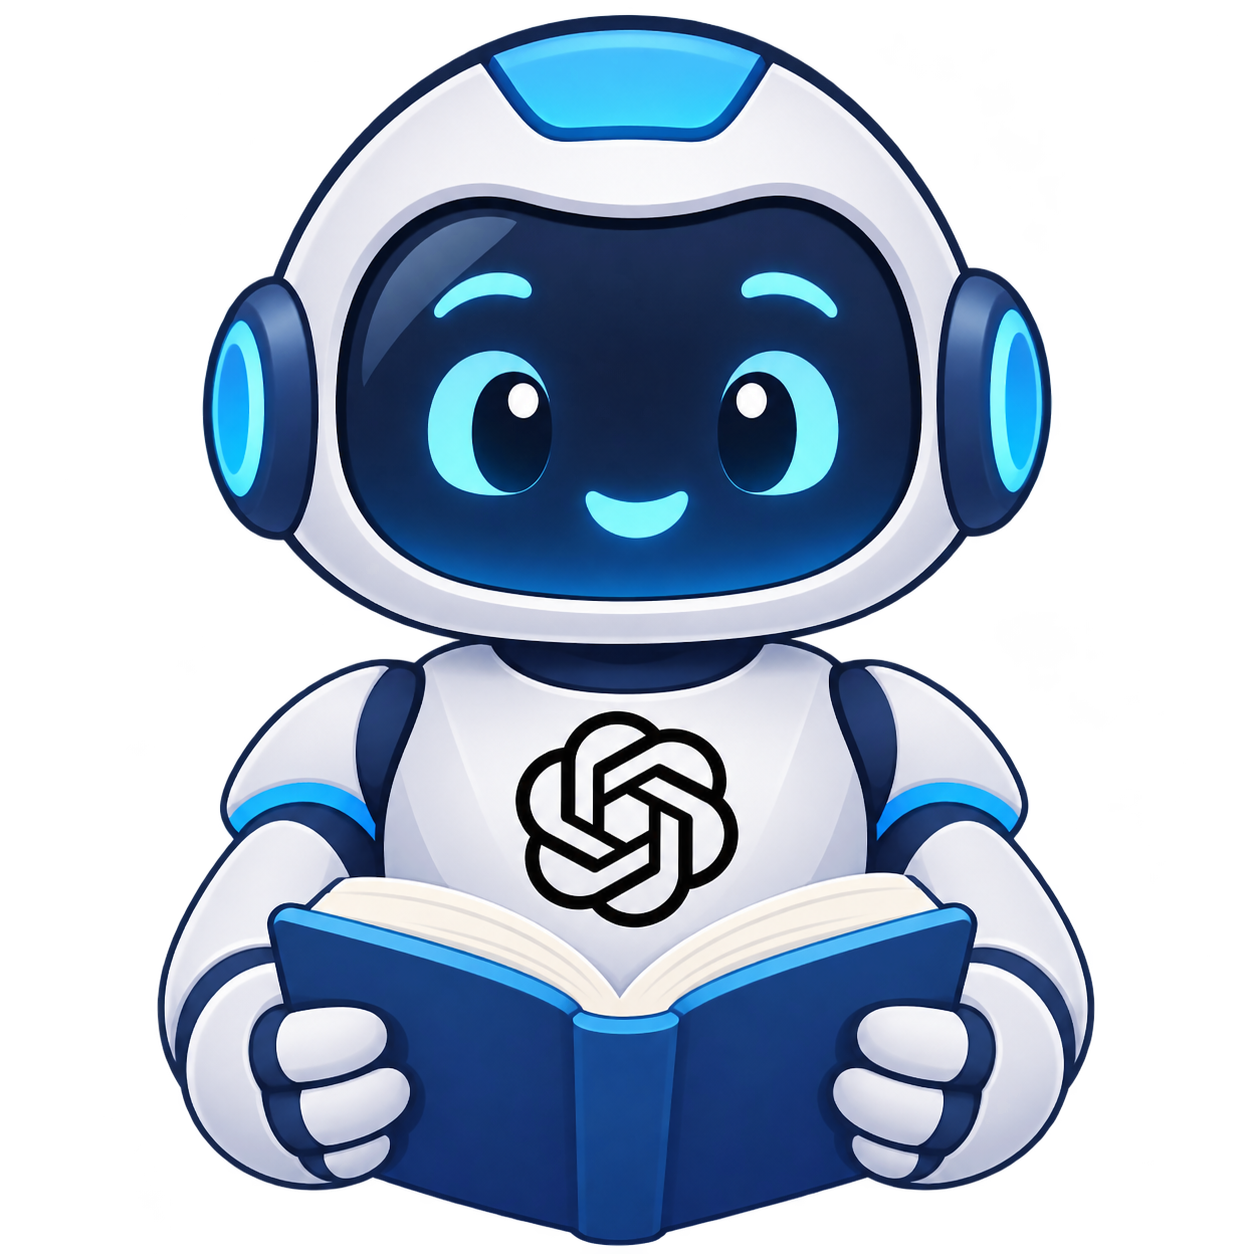
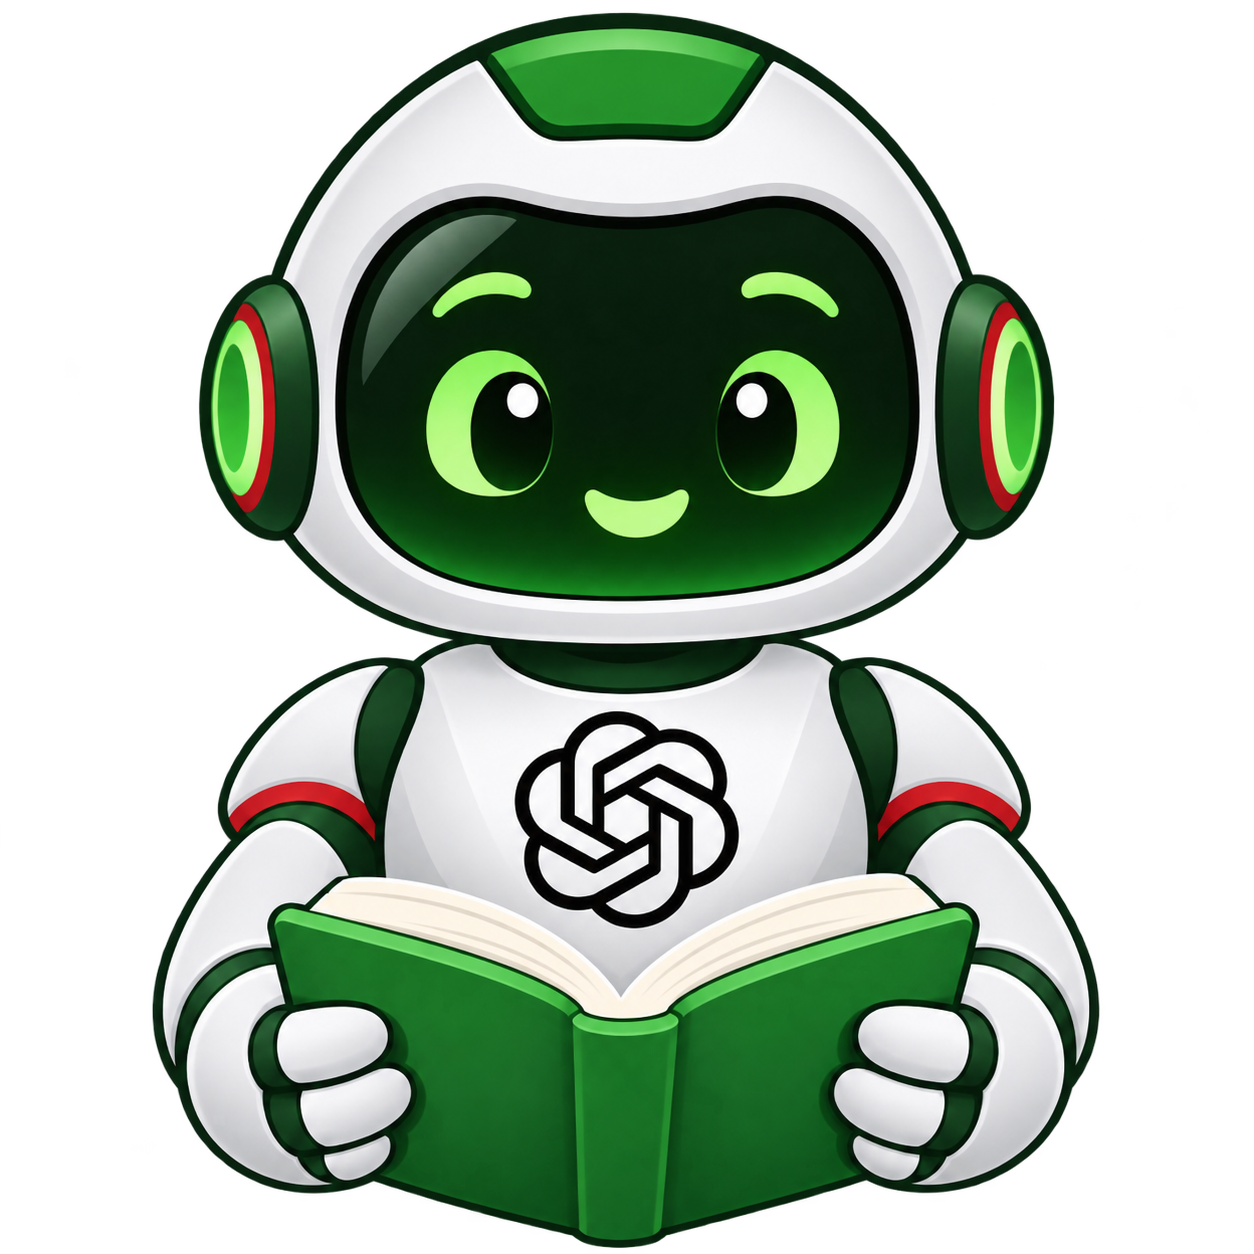
style(ui): aplica paleta do IF ao mascote

diff --git a/src/App.css b/src/App.css
@@ -14,7 +14,7 @@ h2 { font-size: 17px; margin: 0; }
 .conversa-vazia span { font-size: 14px; }
 .mensagem { width: fit-content; max-width: 88%; padding: 14px 18px; margin: 0 0 18px; border-radius: 10px; }
 .mensagem strong { display: block; font-size: 12px; margin-bottom: 6px; color: #465469; }
-.mensagem.user { background: #eaf1fc; margin-left: auto; }
+.mensagem.user { background: #eaf5eb; margin-left: auto; }
 .mensagem.assistant { background: #f2f4f7; margin-right: auto; }
 .texto-resposta { white-space: pre-wrap; overflow-wrap: anywhere; margin: 0; font-size: 15px; }
 .estado { color: #566174; margin: 12px 0; font-size: 14px; }
@@ -23,12 +23,12 @@ h2 { font-size: 17px; margin: 0; }
 label { display: block; font-size: 14px; font-weight: bold; margin-bottom: 10px; }
 textarea { display: block; width: 100%; min-height: 100px; resize: vertical; border: 1px solid #a5afbe; border-radius: 8px; padding: 12px 14px; font: inherit; font-size: 15px; color: #222b38; background: #fff; }
 textarea::placeholder { color: #687487; }
-textarea:focus-visible, button:focus-visible { outline: 3px solid #6a95cf; outline-offset: 3px; }
+textarea:focus-visible, button:focus-visible { outline: 3px solid #2f9e41; outline-offset: 3px; }
 textarea:disabled { background: #f5f6f8; }
 .acoes-formulario { display: flex; justify-content: space-between; align-items: center; gap: 20px; margin-top: 14px; }
 .ajuda { font-size: 12px; color: #596579; margin: 0; }
-button { border: 0; border-radius: 7px; padding: 10px 24px; min-height: 44px; background: #244d86; color: #fff; font: inherit; font-size: 14px; font-weight: bold; cursor: pointer; min-width: 110px; }
-button:hover:not(:disabled) { background: #163969; }
+button { border: 0; border-radius: 7px; padding: 10px 24px; min-height: 44px; background: #216b2d; color: #fff; font: inherit; font-size: 14px; font-weight: bold; cursor: pointer; min-width: 110px; }
+button:hover:not(:disabled) { background: #174c20; }
 button:disabled { background: #69788e; cursor: wait; }
 .aviso { color: #596579; font-size: 12px; margin: 12px 0 0; }
 .nota-conversa { font-size: 12px; color: #596579; margin: 12px 4px 24px; }
@@ -46,3 +46,6 @@ footer p { margin: 4px 0; }
   .mascote { width: 56px; height: 56px; }
 }
 .status-integracao { margin: 4px 0 0; font-size: 12px; color: #596579; }
+
+.publico { margin: 8px 0 0; font-size: 14px; color: #596579; }
+

diff --git a/DESIGN.md b/DESIGN.md
@@ -1,7 +1,10 @@
-# Interface
+# Interface
 
-Uma coluna com largura máxima de 880px, fundo claro, fonte Arial e botão azul. Título acima de um único painel. Cabeçalho do painel com Conversa à esquerda e mascote à direita; área de mensagens; formulário na base. Informações de contexto abaixo do painel e identificação acadêmica no rodapé.
+Uma coluna com largura máxima de 880px, fundo claro, fonte Arial e botão verde escuro. Título acima de um único painel. Cabeçalho do painel com Conversa à esquerda e mascote à direita; área de mensagens; formulário na base. Informações de contexto abaixo do painel e identificação acadêmica no rodapé.
 
 Mensagens do usuário à direita; respostas à esquerda. Texto preserva quebras de linha e quebra palavras compridas. Nenhuma rolagem interna forçada. O formulário agrupa orientação e botão, empilhados em telas de até 520px. Mascote de 64px no desktop e 56px no celular.
 
 Rótulo visível, foco de teclado, aria-live para atualizações e role alert para erros. Sem biblioteca visual, ícones instalados, animações, menus ou abas. Mascote gerado por IA a pedido do autor; não indica produto oficial da OpenAI. Consulte docs/specs/03-organizacao-chat.md.
+
+Mascote branco e verde com detalhes vermelhos inspirado na paleta do IF. Verde de referência #2f9e41; vermelho #cd191e. Controle usa #216b2d para legibilidade do texto branco. A marca oficial do IF não foi inserida; mascote e logo OpenAI permanecem uma ilustração acadêmica. Fonte em docs/specs/04-estudos-if.md.
+

diff --git a/docs/EXPLICACAO.md b/docs/EXPLICACAO.md
@@ -301,3 +301,4 @@ Código público: https://github.com/miguelvzs/assistente-estudos, branch develo
 
 ## Aviso de conexão
 App passa a prop status ao Painel. import.meta.env.MODE informa o modo do Vite: demonstracao mostra aviso explícito de simulação. No modo real, mensagens.length maior que zero indica que já chegou uma resposta da API nesta sessão; antes disso, a tela aguarda a primeira resposta. Condições e props continuam básicas; a variável de modo é configuração do Vite, não um hook. O texto confirma uma resposta passada, sem garantir disponibilidade futura.
+Conceito IF: o prompt do servidor orienta estudos gerais e técnicos; não limita perguntas a React. O subtítulo e o exemplo de matemática comunicam esse público. A paleta foi alterada em CSS e na imagem estática, sem nova biblioteca ou hook. Modelo, limite de 600 tokens e histórico permanecem iguais.
